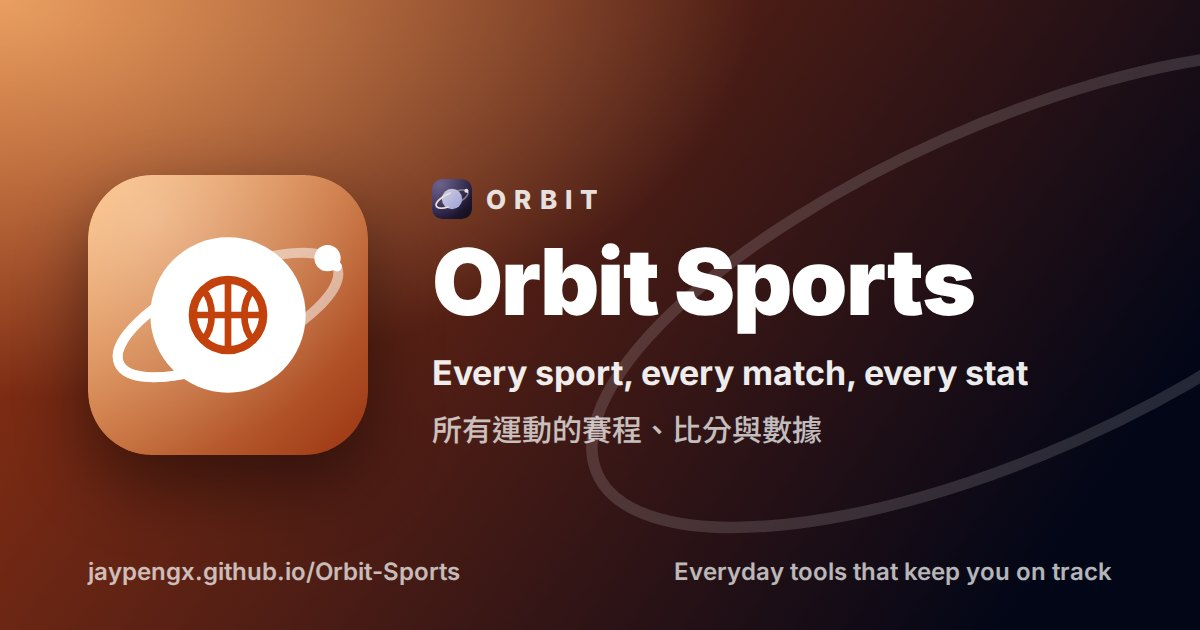
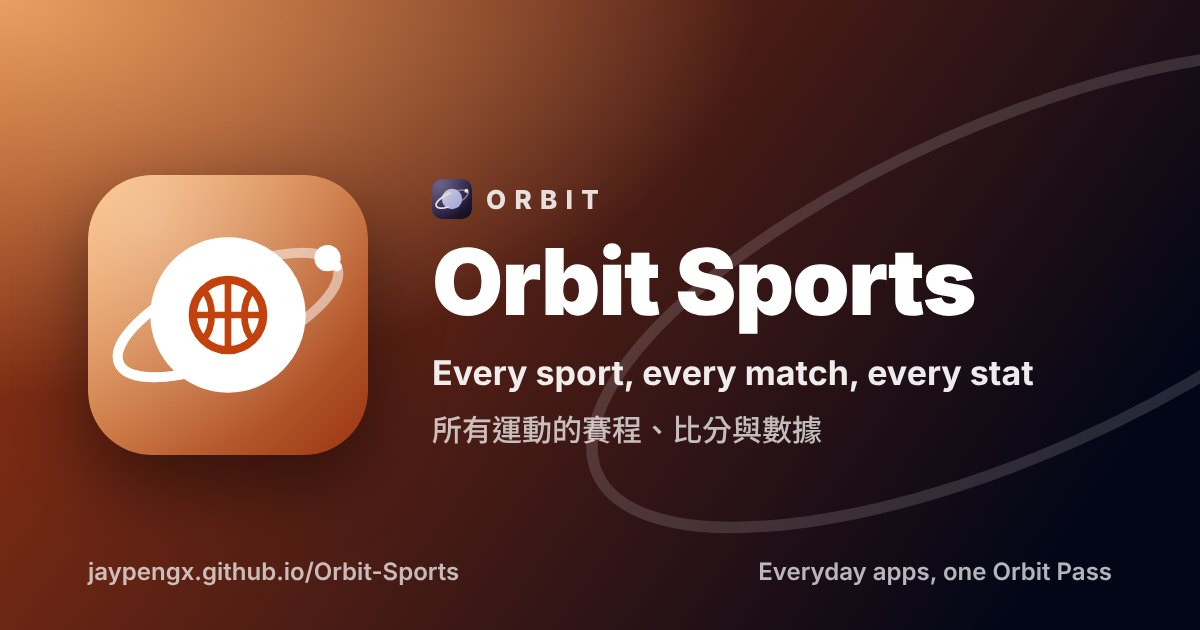
Quadra is now Orbit: Orbit Pass, Orbit Securities, one family; kit orbit.mjs/orbit.css, ORBIT_KIT, orbit.* keys
Claude-Session: https://claude.ai/code/session_017Z8MjamomJpVEaRoiMWmHA

diff --git a/public/index.html b/public/index.html
@@ -46,20 +46,20 @@
 <link rel="stylesheet" href="./styles.css" />
 <!-- kit:head: where the app's stylesheets end, before any module. The kit
      comes from one place for every app (Shared-Proxy's GitHub Pages, same
-     site as the apps), each file at the hash this device last saw (quadra.kit
-     and quadra.kitFiles, noted from the kit's version.json by boot.js and
-     quadra.mjs kitLatest; on a first visit the hashes the app's deploy
+     site as the apps), each file at the hash this device last saw (orbit.kit
+     and orbit.kitFiles, noted from the kit's version.json by boot.js and
+     orbit.mjs kitLatest; on a first visit the hashes the app's deploy
      baked in, the `null` at the end), so a change to the kit is one push
      to Shared-Proxy and a phone downloads only the files it changed. A kit
      file newer than the app's deploy (not in its list) is mapped from those
      hashes too, never left at a bare address the browser keeps 10 minutes. -->
-<script>!function(b,d,v,h,n,m,f,i,u){try{v=localStorage.getItem('quadra.kit')||'';h=JSON.parse(localStorage.getItem('quadra.kitFiles')||'null')}catch(e){v=''}n=!!v;if(!n&&d){v=d.version;h=d}h=h&&h.version===v?h.files:null;u=function(x){var k=h&&h[x];return b+x+(k?'?v='+k:v?'?v='+encodeURIComponent(v):'')};m={'#kit/':b};f=['brand.mjs','catalog.mjs','devconfig.mjs','f1live.mjs','format.mjs','gov.mjs','help.mjs','holidays.mjs','lang.mjs','loan.mjs','logos.mjs','mirror.mjs','names.mjs','pass-sync.mjs','pass.mjs','photo-urls.mjs','photos.mjs','play-alive.mjs','play-bets.mjs','play-board.mjs','play-boardfile.mjs','play-cashout.mjs','play-house.mjs','play-kambi.mjs','play-lines.mjs','play-live.mjs','play-lottery.mjs','play-markets.mjs','play-odds.mjs','play-offers.mjs','play-players.mjs','play-propmodel.mjs','play-props.mjs','play-recommend.mjs','play-rules.mjs','play-schedules.mjs','play-scratch.mjs','play-sources.mjs','play-teams.mjs','plus.mjs','postseason.mjs','quadra.mjs','settle.mjs','sports-broadcast.mjs','sports-espn.mjs','sports-highlights.mjs','sports-winprob.mjs','stock-account.mjs','stock-bonds.mjs','stock-codec.mjs','stock-credit.mjs','stock-hk-lots.mjs','stock-holidays.mjs','stock-ipo.mjs','stock-jp-lists.mjs','stock-markets.mjs','stock-quotes.mjs','stock-savings.mjs','truth.mjs','ui.mjs'];for(i=0;i<f.length;i++)m['#kit/'+f[i]]=u(f[i]);if(h)for(i in h)/\.mjs$/.test(i)&&(m['#kit/'+i]=u(i));window.QUADRA_KIT={base:b,version:v,noted:n,url:u};document.write('<script type="import'+'map">'+JSON.stringify({imports:m})+'<\/script><link rel="stylesheet" href="'+u('quadra.css')+'"><link rel="modulepreload" href="'+u('quadra.mjs')+'"><link rel="modulepreload" href="'+u('brand.mjs')+'">')}('../Shared-Proxy/kit/',null)</script>
+<script>!function(b,d,v,h,n,m,f,i,u){try{v=localStorage.getItem('orbit.kit')||'';h=JSON.parse(localStorage.getItem('orbit.kitFiles')||'null')}catch(e){v=''}n=!!v;if(!n&&d){v=d.version;h=d}h=h&&h.version===v?h.files:null;u=function(x){var k=h&&h[x];return b+x+(k?'?v='+k:v?'?v='+encodeURIComponent(v):'')};m={'#kit/':b};f=['brand.mjs','catalog.mjs','dayoff.mjs','devconfig.mjs','f1live.mjs','format.mjs','gov.mjs','help.mjs','holidays.mjs','lang.mjs','loan.mjs','logos.mjs','mirror.mjs','names.mjs','orbit.mjs','pass-sync.mjs','pass.mjs','photo-urls.mjs','photos.mjs','play-alive.mjs','play-bets.mjs','play-board.mjs','play-boardfile.mjs','play-house.mjs','play-kambi.mjs','play-lines.mjs','play-live.mjs','play-lottery.mjs','play-markets.mjs','play-odds.mjs','play-offers.mjs','play-players.mjs','play-props.mjs','play-recommend.mjs','play-rules.mjs','play-schedules.mjs','play-scratch.mjs','play-sources.mjs','play-teams.mjs','postseason.mjs','settle.mjs','sports-broadcast.mjs','sports-espn.mjs','sports-highlights.mjs','sports-winprob.mjs','stock-account.mjs','stock-bonds.mjs','stock-codec.mjs','stock-credit.mjs','stock-hk-lots.mjs','stock-holidays.mjs','stock-ipo.mjs','stock-jp-lists.mjs','stock-markets.mjs','stock-quotes.mjs','stock-savings.mjs','ui.mjs'];for(i=0;i<f.length;i++)m['#kit/'+f[i]]=u(f[i]);if(h)for(i in h)/\.mjs$/.test(i)&&(m['#kit/'+i]=u(i));window.ORBIT_KIT={base:b,version:v,noted:n,url:u};document.write('<script type="import'+'map">'+JSON.stringify({imports:m})+'<\/script><link rel="stylesheet" href="'+u('orbit.css')+'"><link rel="modulepreload" href="'+u('orbit.mjs')+'"><link rel="modulepreload" href="'+u('brand.mjs')+'">')}('../Shared-Proxy/kit/',null)</script>
 <!-- /kit:head -->
 </head>
 <body>
 <div id="loading" data-title="Orbit Sports"></div>
 <!-- kit:boot: right after <div id="loading">. -->
-<script>document.write('<script src="'+QUADRA_KIT.url('boot.js')+'"><\/script>')</script>
+<script>document.write('<script src="'+ORBIT_KIT.url('boot.js')+'"><\/script>')</script>
 <!-- /kit:boot -->
 <header class="q-appbar">
   <div class="q-appbar-inner">

diff --git a/public/app.js b/public/app.js
@@ -1,15 +1,15 @@
-// Orbit Sports (was Quadra Fixtures): an Orbit app, one of the everyday
-// tools, signed in with the Quadra Pass. Every supported sport's scores, schedules, match details (box
+// Orbit Sports (was Orbit Sports): an Orbit app, one of the everyday
+// tools, signed in with the Orbit Pass. Every supported sport's scores, schedules, match details (box
 // scores, plays, line-ups, win probability), standings, teams and players,
 // and a day planned around what the person follows, for the leagues on
 // ELTA.tv and Apple TV in Taiwan, with a tap to watch them there. The data is
 // ESPN's (CPBL's own site for its games), read through the
-// Quadra data proxy (lib/espn.mjs).
+// Orbit data proxy (lib/espn.mjs).
 //
 // What the person follows lives on the pass (this app's payload): leagues in
 // their order of priority, teams and F1's drivers and teams. Nothing of it goes to the other
 // apps; their activity doesn't steer the picks here either.
-import { quadraSession, tabBar, topActions, installGate, watchUpdates, recordAffinity, affinity, affinityPatch, settingPatch, setting, fitNumbers, notify, cachedPayload, cachedWallet, restorePlace, schedulePush, translate, proxyJson, packJson, dev, everyDev, keepOffline, onlineOnly, netState } from '#kit/quadra.mjs';
+import { orbitSession, tabBar, topActions, installGate, watchUpdates, recordAffinity, affinity, affinityPatch, settingPatch, setting, fitNumbers, notify, cachedPayload, cachedWallet, restorePlace, schedulePush, translate, proxyJson, packJson, dev, everyDev, keepOffline, onlineOnly, netState } from '#kit/orbit.mjs';
 import { stripDays } from './lib/strip.mjs';
 import { fold } from './lib/text.mjs';
 import { boundsOf, unionBounds, within, clampDay } from './lib/bounds.mjs';
@@ -115,7 +115,7 @@ const state = {
   scores: { sport: null, league: 'all', date: null, byDay: null, days: [], extra: 0, loading: false, mode: 'days', stage: 'all', view: 'games' },
 };
 
-const q = quadraSession('match', { lang: locale });
+const q = orbitSession('match', { lang: locale });
 Object.assign(ctx, { t, locale, state, q, openEvent, openTeam, openPlayer, isFollowed, toggleFollow, track, isFollowedEvent, isFollowedGame, toggleFollowGame });
 
 // ---- What the person follows (on the pass) ---------------------------------------------
@@ -3385,7 +3385,7 @@ document.addEventListener('visibilitychange', pollF1Live);
 
 window.__fxStarted = true;
 const gated = installGate('match', locale);
-watchUpdates({ current: document.querySelector('meta[name="build-version"]')?.content, key: 'quadraFixtures', cachePrefix: 'quadra-fixtures-' });
+watchUpdates({ current: document.querySelector('meta[name="build-version"]')?.content, key: 'orbitSports', cachePrefix: 'orbit-sports-' });
 const actions = topActions(q, { refresh: reloadNow });
 // Shared-Data's pack of recent games (built every few hours): each one's
 // official highlights and whether ELTA has its whole game, so a sheet has

diff --git a/public/styles.css b/public/styles.css
@@ -1,4 +1,4 @@
-/* Orbit Sports: the kit's frame (quadra.css: tokens, the premium layer,
+/* Orbit Sports: the kit's frame (orbit.css: tokens, the premium layer,
    sections, chips, sheets) in this app's orange, then by screen: a game as a
    row (every list), 首頁, 賽事, 轉播, 追蹤, and the sheets (a match, a race
    weekend, a team, a player, the tables). Light and dark from the kit's
@@ -77,7 +77,7 @@ img { max-width: 100%; }
 @keyframes pulse { 50% { opacity: 0.3; } }
 
 /* ==== The frame: the page, its head, sections ==== */
-/* The kit's column (quadra.css .q-col): the phone's 16 px in, the iPad's whole width. */
+/* The kit's column (orbit.css .q-col): the phone's 16 px in, the iPad's whole width. */
 .page { --q-margin: var(--q-gutter, 16px); max-width: var(--q-col, 640px); margin: 0 auto; padding: 4px max(var(--q-margin), env(safe-area-inset-right)) calc(40px + var(--q-nav)) max(var(--q-margin), env(safe-area-inset-left)); }
 /* One head per tab: the small line over the large title, an action at the right. */
 .sp-head { display: flex; align-items: flex-end; justify-content: space-between; gap: 12px; }

diff --git a/public/sheets.js b/public/sheets.js
@@ -2,7 +2,7 @@
 // race weekend, a team, a player, and the
 // standings tables they share with the Standings tab.
 import { personZh } from './lib/people.mjs';
-import { translate, proxyJson, packJson, everyDev, dev } from '#kit/quadra.mjs';
+import { translate, proxyJson, packJson, everyDev, dev } from '#kit/orbit.mjs';
 import { searchUrl, videoUrl, knownHighlights, findHighlights, highlightsKind, watchMonthWanted, loadWatchMonth } from './lib/highlights.mjs';
 import { teamNameZh } from '#kit/names.mjs';
 import { splitName, otherName } from './lib/compname.mjs';

diff --git a/public/ui.js b/public/ui.js
@@ -11,7 +11,7 @@ import { stageTag } from './lib/stage.mjs';
 import { otherName } from './lib/compname.mjs';
 import { AUDIO_NAMES, hasAudio } from './lib/broadcast.mjs';
 import { freshHeadshot, SESSION_NAMES, espnSummary, onAir } from './lib/espn.mjs';
-import * as kitQ from '#kit/quadra.mjs';
+import * as kitQ from '#kit/orbit.mjs';
 import * as kitUI from '#kit/ui.mjs';
 import { addDays } from '#kit/format.mjs';
 import { channelsOf, watchOf, replayHint } from './lib/tv.mjs';

diff --git a/public/sw.js b/public/sw.js
@@ -4,6 +4,6 @@
 // isn't the one its address names (GitHub's CDN can answer a new address
 // with the old file for a while after a deploy).
 // Pictures from other sites: the kit's shared picture cache (sw-images.js).
-self.QUADRA_SW = { cache: 'quadra-fixtures-v2', title: 'Orbit Sports' };
+self.ORBIT_SW = { cache: 'orbit-sports-v2', title: 'Orbit Sports' };
 importScripts('../Shared-Proxy/kit/sw-images.js');
 importScripts('../Shared-Proxy/kit/sw.js');

diff --git a/public/cards.js b/public/cards.js
@@ -1,4 +1,4 @@
-// The tabs' own pieces, drawn with the kit's classes (quadra.css "Premium
+// The tabs' own pieces, drawn with the kit's classes (orbit.css "Premium
 // layer": .q-page-head, .q-hero-card, .q-tag, .q-rail): the page head, the
 // hero game, a finished game's score card, a sport's tile. Markup only: what
 // a game is (onAir, sessionStatus, picks, standings) is decided elsewhere.

diff --git a/README.md b/README.md
@@ -3,7 +3,7 @@
 What a viewer in Taiwan would watch: every league on ELTA.tv (愛爾達) or
 Apple TV, with scores, schedules, match details, standings, teams and
 players; a day planned around what you follow; one tap to watch. F1 has
-its own live board from F1's timing. Signs in with the Quadra Pass.
+its own live board from F1's timing. Signs in with the Orbit Pass.
 
 Live: https://jaypengx.github.io/Orbit-Sports/
 
